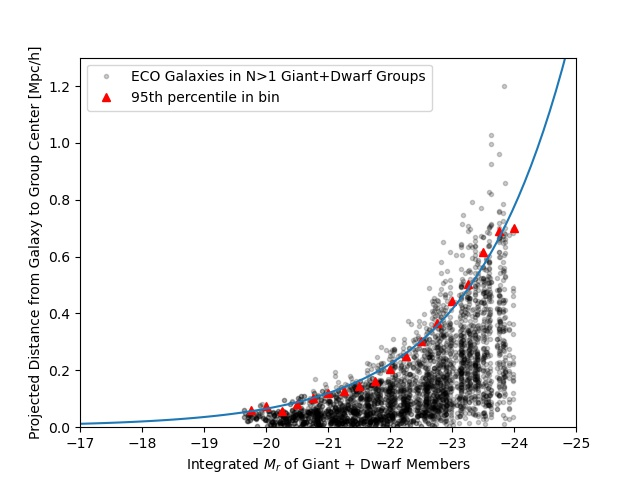
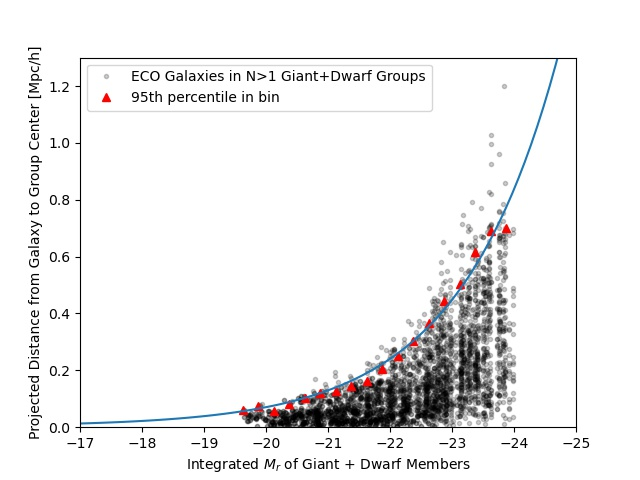
corrected binning issue for calibration of dwarf-only groups

Changed region(s): [[0.25, 0.125, 0.9062, 0.875], [0.125, 0.875, 0.25, 0.9062]]

diff --git a/create_ecoresolve_luminosityselgroups.py b/create_ecoresolve_luminosityselgroups.py
@@ -24,7 +24,7 @@ import numpy as np
 import matplotlib.pyplot as plt
 from scipy.interpolate import interp1d 
 from scipy.optimize import curve_fit
-from scipy.stats import binned_statistic
+from center_binned_stats import center_binned_stats
 import foftools as fof
 import iterativecombination as ic
 from smoothedbootstrap import smoothedbootstrap as sbs
@@ -167,8 +167,8 @@ if __name__=='__main__':
     median_relprojdist = np.array([np.median(relprojdist[np.where(ecogiantgrpn==sz)]) for sz in uniqecogiantgrpn[keepcalsel]])
     median_relvel = np.array([np.median(relvel[np.where(ecogiantgrpn==sz)]) for sz in uniqecogiantgrpn[keepcalsel]])
 
-    rproj_median_error = np.std(np.array([sbs(relprojdist[np.where(ecogiantgrpn==sz)], 10000, np.median, kwargs=dict({'axis':1 })) for sz in uniqecogiantgrpn[keepcalsel]]), axis=1)
-    dvproj_median_error = np.std(np.array([sbs(relvel[np.where(ecogiantgrpn==sz)], 10000, np.median, kwargs=dict({'axis':1})) for sz in uniqecogiantgrpn[keepcalsel]]), axis=1)
+    rproj_median_error = np.std(np.array([sbs(relprojdist[np.where(ecogiantgrpn==sz)], 1000000, np.median, kwargs=dict({'axis':1 })) for sz in uniqecogiantgrpn[keepcalsel]]), axis=1)
+    dvproj_median_error = np.std(np.array([sbs(relvel[np.where(ecogiantgrpn==sz)], 1000000, np.median, kwargs=dict({'axis':1})) for sz in uniqecogiantgrpn[keepcalsel]]), axis=1)
 
     #rprojslope, rprojint = np.polyfit(uniqecogiantgrpn[keepcalsel], median_relprojdist, deg=1, w=1/rproj_median_error)
     #dvprojslope, dvprojint = np.polyfit(uniqecogiantgrpn[keepcalsel], median_relvel, deg=1, w=1/dvproj_median_error)
@@ -254,21 +254,21 @@ if __name__=='__main__':
    
     magbins=np.arange(-24,-19,0.25)
     binsel = np.where(np.logical_and(ecogdn>1, ecogdtotalmag>-24))
-    gdmedianrproj, magbinedges, jk = binned_statistic(ecogdtotalmag[binsel], ecogdrelprojdist[binsel], lambda x:np.nanpercentile(x,95), bins=magbins)
-    gdmedianrelvel, jk, jk = binned_statistic(ecogdtotalmag[binsel], ecogdrelvel[binsel], lambda x: np.nanpercentile(x,95), bins=magbins)
+    gdmedianrproj, magbincenters, agbinedges, jk = center_binned_stats(ecogdtotalmag[binsel], ecogdrelprojdist[binsel], lambda x:np.nanpercentile(x,95), bins=magbins)
+    gdmedianrelvel, jk, jk, jk = center_binned_stats(ecogdtotalmag[binsel], ecogdrelvel[binsel], lambda x: np.nanpercentile(x,95), bins=magbins)
     nansel = np.isnan(gdmedianrproj)
     if ADAPTIVE_OPTION: 
         guess=None
     else:
         guess=[1e-5, 0.4, 0.2, 1]
-    poptr, pcovr = curve_fit(decayexp, magbinedges[:-1][~nansel], gdmedianrproj[~nansel], p0=guess)
+    poptr, pcovr = curve_fit(decayexp, magbincenters[~nansel], gdmedianrproj[~nansel], p0=guess)
     print("guess:", poptr)
-    poptv, pcovv = curve_fit(decayexp, magbinedges[:-1][~nansel], gdmedianrelvel[~nansel], p0=[3e-5,4e-1,5e-03,1])
+    poptv, pcovv = curve_fit(decayexp, magbincenters[~nansel], gdmedianrelvel[~nansel], p0=[3e-5,4e-1,5e-03,1])
 
     tx = np.linspace(-27,-17,100)
     plt.figure()
     plt.plot(ecogdtotalmag[binsel], ecogdrelprojdist[binsel], 'k.', alpha=0.2, label='ECO Galaxies in N>1 Giant+Dwarf Groups')
-    plt.plot(magbinedges[:-1], gdmedianrproj, 'r^', label='95th percentile in bin')
+    plt.plot(magbincenters, gdmedianrproj, 'r^', label='95th percentile in bin')
     plt.plot(tx, decayexp(tx,*poptr))
     plt.xlabel(r"Integrated $M_r$ of Giant + Dwarf Members")
     plt.ylabel("Projected Distance from Galaxy to Group Center [Mpc/h]")
@@ -281,7 +281,7 @@ if __name__=='__main__':
 
     plt.figure()
     plt.plot(ecogdtotalmag[binsel], ecogdrelvel[binsel], 'k.', alpha=0.2, label='Mock Galaxies in N=2 Giant+Dwarf Groups')
-    plt.plot(magbinedges[:-1], gdmedianrelvel,'r^',label='Medians')
+    plt.plot(magbincenters, gdmedianrelvel,'r^',label='Medians')
     plt.plot(tx, decayexp(tx, *poptv))
     plt.ylabel("Relative Velocity between Galaxy and Group Center")
     plt.xlabel(r"Integrated $M_r$ of Giant + Dwarf Members")
@@ -304,16 +304,16 @@ if __name__=='__main__':
 
     magbins2=np.arange(-24,-19,0.25)
     binsel2 = np.where(np.logical_and(resbana_gdn>1, resbana_gdtotalmag>-24))
-    gdmedianrproj, magbinedges, jk = binned_statistic(resbana_gdtotalmag[binsel2], resbana_gdrelprojdist[binsel2], lambda x:np.nanpercentile(x,95), bins=magbins2)
-    gdmedianrelvel, jk, jk = binned_statistic(resbana_gdtotalmag[binsel2], resbana_gdrelvel[binsel2], lambda x: np.nanpercentile(x,95), bins=magbins2)
+    gdmedianrproj, magbincenters, magbinedges, jk = center_binned_stats(resbana_gdtotalmag[binsel2], resbana_gdrelprojdist[binsel2], lambda x:np.nanpercentile(x,95), bins=magbins2)
+    gdmedianrelvel, jk, jk, jk = center_binned_stats(resbana_gdtotalmag[binsel2], resbana_gdrelvel[binsel2], lambda x: np.nanpercentile(x,95), bins=magbins2)
     nansel = np.isnan(gdmedianrproj)
-    poptr_resbana, jk = curve_fit(decayexp, magbinedges[:-1][~nansel], gdmedianrproj[~nansel], p0=poptr)
-    poptv_resbana, jk = curve_fit(decayexp, magbinedges[:-1][~nansel], gdmedianrelvel[~nansel], p0=[3e-5,4e-1,5e-03,1])
+    poptr_resbana, jk = curve_fit(decayexp, magbincenters[~nansel], gdmedianrproj[~nansel], p0=poptr)
+    poptv_resbana, jk = curve_fit(decayexp, magbincenters[~nansel], gdmedianrelvel[~nansel], p0=[3e-5,4e-1,5e-03,1])
 
     tx = np.linspace(-27,-16,100)
     plt.figure()
     plt.plot(resbana_gdtotalmag[binsel2], resbana_gdrelprojdist[binsel2], 'k.', alpha=0.2, label='Mock Galaxies in N>1 Giant+Dwarf Groups')
-    plt.plot(magbinedges[:-1], gdmedianrproj, 'r^', label='95th percentile in bin')
+    plt.plot(magbincenters, gdmedianrproj, 'r^', label='95th percentile in bin')
     plt.plot(tx, decayexp(tx,*poptr_resbana))
     plt.xlabel(r"Integrated $M_r$ of Giant + Dwarf Members")
     plt.ylabel("Projected Distance from Galaxy to Group Center [Mpc/h]")
@@ -325,7 +325,7 @@ if __name__=='__main__':
 
     plt.figure()
     plt.plot(resbana_gdtotalmag[binsel2], resbana_gdrelvel[binsel2], 'k.', alpha=0.2, label='Mock Galaxies in N=2 Giant+Dwarf Groups')
-    plt.plot(magbinedges[:-1], gdmedianrelvel,'r^',label='Medians')
+    plt.plot(magbincenters, gdmedianrelvel,'r^',label='Medians')
     plt.plot(tx, decayexp(tx, *poptv_resbana))
     plt.ylabel("Relative Velocity between Galaxy and Group Center")
     plt.xlabel(r"Integrated $M_r$ of Giant + Dwarf Members")
